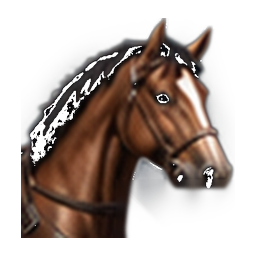
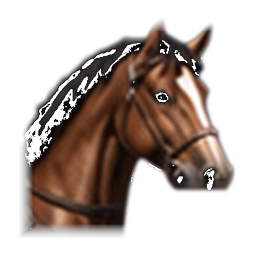
One set of rarity badges, and item paintings that carry no backdrop
Two things that only showed in the Shop.

The rarity badge was two different objects. The shop reference paints its own
-- a hexagon with a diamond finial and a flaming tail, pink for epic, red for
legendary -- and those were cut and used for the four tiers it happens to
paint. Common, mystic and special were never painted there, so they fell back
to the inventory badge, and the shop showed four badges of one design beside
three of another. A player reading EPIC on a shop card and EPIC in their bags
saw two different marks for one thing. There is now one set, the inventory's,
and the shop layout carries its real 99x47 box instead of the wider one the
old badge needed.

The paintings kept the glow around each item -- the haze on a shadow blade,
the flames on a red one -- as semi-opaque pixels reaching well past the
silhouette, plus whatever ground the mask swallowed. Over the dark tiles that
reads as atmosphere, which is where it was reviewed and why it passed; over
the shop's lit gold card the same pixels are a dark smear with a visible
edge. A backdrop cannot be right over two grounds at once, so the cut now
keeps the item and nothing else: the mask alone, flat-dark fills dropped
outright, and a short ramp where a painting runs off the edge of its own
source crop so an item the reference's card cropped fades out instead of
ending in a razor line.

It also stops the art claiming a rarity it does not have. balance/items.json
[…]

diff --git a/scripts/cut-item-paintings.py b/scripts/cut-item-paintings.py
@@ -95,6 +95,21 @@ def mask_for(name, im):
     return m
 
 
+def fade_at_border(alpha, band=26):
+    """Fades the alpha out where the item runs off the edge of its source crop.
+
+    Several paintings are cropped by their own card -- the shop's Lionheart
+    armour has no bottom, the courser no hindquarters -- so the mask ends in a
+    straight razor line at the crop boundary. Inside its frame in the reference
+    that line is the frame; lifted onto a tile it is a sliced-off item. A short
+    ramp over the last few pixels reads as the painting fading out instead.
+    """
+    h, w = alpha.shape
+    yy, xx = np.mgrid[0:h, 0:w]
+    d = np.minimum(np.minimum(xx, w - 1 - xx), np.minimum(yy, h - 1 - yy))
+    return alpha * np.clip(d / float(band), 0, 1)
+
+
 def luma_key(a, lo=0.06, hi=0.34, vignette=0.55):
     lum = 0.30 * a[..., 0] + 0.55 * a[..., 1] + 0.15 * a[..., 2]
     mx, mn = a.max(axis=2), a.min(axis=2)
@@ -112,11 +127,16 @@ def cut(name, box):
     im = without_plate(im, box, k)
     a = np.array(im).astype(float) / 255.0
     m = np.array(mask_for(name, im).filter(ImageFilter.GaussianBlur(3))).astype(float) / 255.0
-    # The glow may reach well past the object's edge, so the key is allowed a
-    # wide, soft ring around the mask.
-    ring = np.array(Image.fromarray((m * 255).astype(np.uint8)).filter(ImageFilter.MaxFilter(61)).filter(ImageFilter.GaussianBlur(24))).astype(float) / 255.0
-    glow = luma_key(a) * ring
-    alpha = np.clip(m + (1 - m) * glow, 0, 1)
+    # The item only. An earlier cut kept the glow around it -- the purple haze
+    # on a shadow blade, the flames on a red one -- by keying luminance in a
+    # wide ring outside the mask. On the dark tiles that read as atmosphere, so
+    # the review sheet passed; on the shop's gold card the same pixels are a
+    # dark smear with a visible edge, because a semi-opaque backdrop cannot be
+    # right over two different grounds at once. It also painted a rarity into
+    # art that balance/items.json shares across three rarities: the purple
+    # around weapon_04 belongs to The Sundering (mystic) and rode along onto
+    # Guard's Greatsword (uncommon). Rarity is the frame's job.
+    alpha = m
     # A flat, near-black fill inside the mask is not the item: it is the level
     # plate the slicer erased from the crop, or ground the mask swallowed. Real
     # shading has some colour or some light in it; this has neither.
@@ -124,7 +144,8 @@ def cut(name, box):
     mx, mn = a.max(axis=2), a.min(axis=2)
     sat = np.where(mx > 0, (mx - mn) / np.maximum(mx, 1e-6), 0)
     flat_dark = (lum < 0.10) & (sat < 0.25)
-    alpha = np.where(flat_dark, np.minimum(alpha, glow), alpha)
+    alpha = np.where(flat_dark, 0.0, alpha)
+    alpha = fade_at_border(alpha)
     rgba = np.dstack([a * 255, alpha[..., None] * 255]).astype(np.uint8)
     out = Image.fromarray(rgba, "RGBA")
     ys, xs = np.where(alpha > 0.16)
@@ -148,18 +169,25 @@ def main():
         done[key] = canvas
         print(f"{key} <- {name}")
     if args.review:
+        # Every design over BOTH grounds it is drawn on. A cut that keeps any of
+        # its own backdrop disappears against the dark tile and only shows on
+        # the shop's lit card, so a sheet with the tile alone passes work that
+        # is visibly wrong in the shop -- which is how the glow shipped.
         tile = Image.open(ROOT / "client/assets/family/gear_tile_empty.png").convert("RGBA")
-        cell = 224
-        sheet = Image.new("RGB", (cell * 7, (cell - 30) * 3 + 40), (25, 25, 25))
+        card = Image.open(ROOT / "client/assets/shop/card_frame_legendary.png").convert("RGBA")
+        cell, rows = 224, 6
+        sheet = Image.new("RGB", (cell * 7, (cell - 30) * rows + 40), (25, 25, 25))
         d = ImageDraw.Draw(sheet)
         for i, key in enumerate(DESIGNS):
             im = done[key].copy()
             im.thumbnail((184, 144))
-            t = tile.copy()
-            t.paste(im, (18 + (184 - im.width) // 2, 14 + (144 - im.height) // 2), im)
-            x, y = (i % 7) * cell, (i // 7) * (cell - 30) + 14
-            sheet.paste(t.convert("RGB"), (x + 2, y))
-            d.text((x + 4, y - 12), key, fill=(255, 255, 255))
+            col, band = i % 7, (i // 7) * 2
+            for j, ground in enumerate((tile, card)):
+                g = ground.copy()
+                g.paste(im, (18 + (184 - im.width) // 2, 14 + (144 - im.height) // 2), im)
+                x, y = col * cell, (band + j) * (cell - 30) + 14
+                sheet.paste(g.convert("RGB"), (x + 2, y))
+                d.text((x + 4, y - 12), key if j == 0 else key + " (shop)", fill=(255, 255, 255))
         (ROOT / "art/qa").mkdir(exist_ok=True)
         sheet.save(ROOT / "art/qa/item_designs.png")
         print("review sheet: art/qa/item_designs.png")
